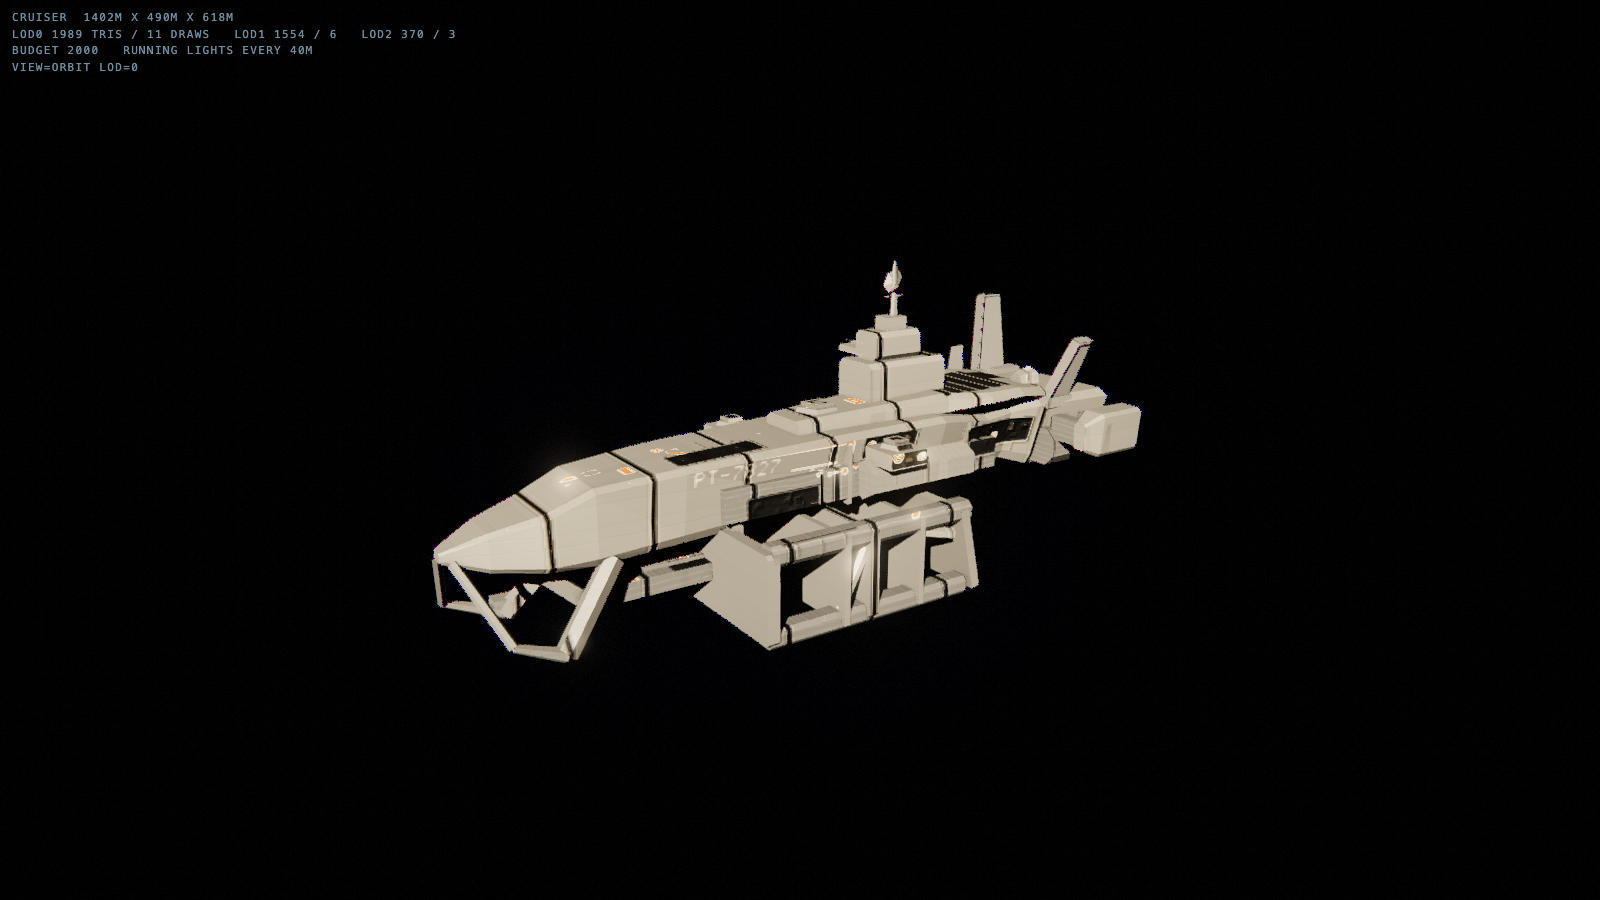
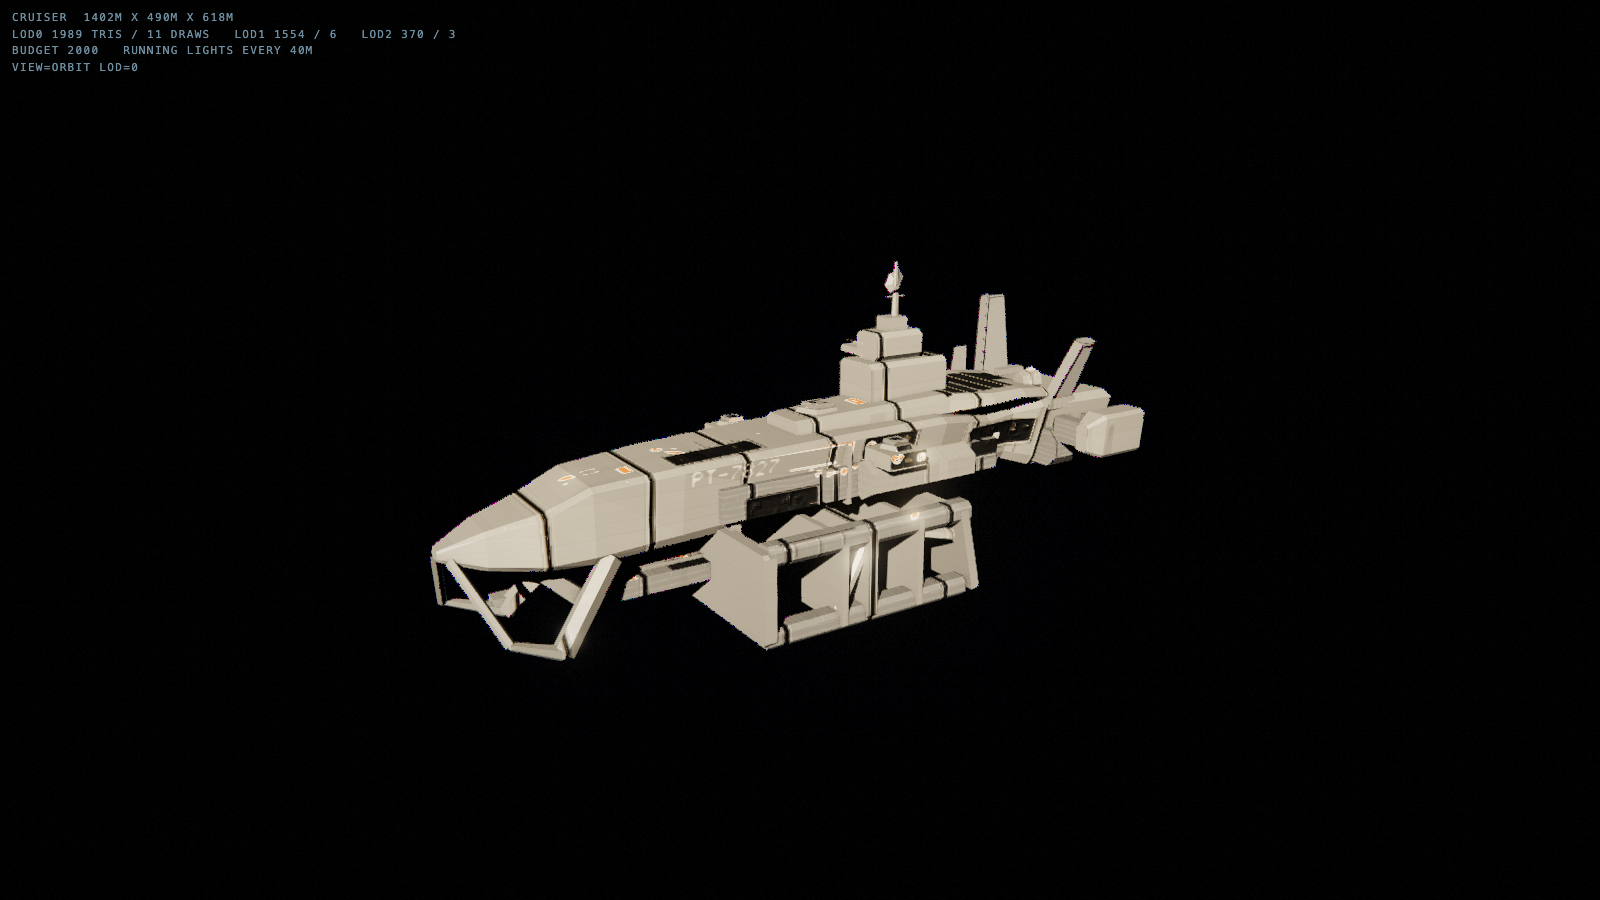
The detached-geometry defect was the detector, not the geometry
`node tools/probe.mjs cruiser` has reported four pieces of core hull floating
unattached in the bridge and sensor-mast region at all three LODs. HANDOFF.md records
it as real, "not cosmetic", present as far back as 5ea20d8 and therefore impossible to
revert away. It is none of those things. It is the check.

floatingParts() shrank every part's bounding box by up to 0.5 m per axis and then tested
the shrunk boxes for intersection. That asks for more than a metre of mutual
INTERPENETRATION before two parts count as joined, so anything bolted flat to a deck is
reported as floating in space. A bridge tower is bolted flat to a deck.

Measured on the unshrunk boxes at LOD0:

  core/hull#3 [-52.0,176.0,-282.0 .. 16.0,232.0,-170.0]
  core/hull#2 [-70.0, 80.0,-333.0 .. 34.0,176.0,-143.0]
  per-axis separation [-86.00, 0.00, -139.00]

Exactly 0.000 m apart on y and overlapping on both other axes: they share a face. The
four flagged parts overlap EACH OTHER by 10 to 29 m, so they were a genuine connected
component of four whose only link to the rest of the hull was that flush face.

Touching is joined. The check now expands by a 0.25 m tolerance and tests intersection,
which says so, where shrinking said the opposite. A sub-metre gap on a 1400 m hull is
invisible, so the tolerance costs no real detection. The audit passes at LOD 0/1/2 and
no geometry moved -- which matters, because the recorded defect would have sent someone
to move correct geometry until a broken check went quiet.

Changed region(s): [[0.25, 0.28, 0.7188, 0.7467], [0.4688, 0.6844, 0.5, 0.7156]]

diff --git a/src/probes/cruiser.js b/src/probes/cruiser.js
@@ -331,6 +331,27 @@ export default {
  *
  * @returns {string[]} human-readable descriptions, empty when the hull is sound
  */
+/**
+ * How close two parts must be to count as joined, in metres.
+ *
+ * This USED to be a shrink: every box was pulled in by up to 0.5 m per axis and the
+ * boxes were then tested for intersection. That demanded more than a metre of mutual
+ * INTERPENETRATION before two parts counted as connected, so anything bolted flat to
+ * a deck — which is how a bridge tower is built — was reported as floating in space.
+ *
+ * It reported exactly that for the whole life of the check. `core/hull#3` sits on
+ * `core/hull#2` with a measured y-separation of 0.000 m and overlap on x and z; the
+ * four superstructure parts overlap EACH OTHER by 10-29 m, so they formed a real
+ * connected component whose only link to the main hull was a flush face. HANDOFF.md
+ * recorded this as four pieces of core hull floating unattached, "not cosmetic" and
+ * impossible to revert away, and it was none of those things.
+ *
+ * Touching is joined. Expanding by a small tolerance and testing intersection says
+ * that; shrinking says the opposite. A sub-metre gap on a 1400 m hull is invisible
+ * anyway, so the tolerance costs no real detection.
+ */
+const TOUCH_TOLERANCE_M = 0.25;
+
 function floatingParts(lod, rng) {
   const { buckets } = hullParts({ rng: rng.fork('cruiser'), lod });
   const items = [];
@@ -340,13 +361,10 @@ function floatingParts(lod, rng) {
       const g = G.mergeParts([b.parts[i]], { uv: false });
       g.computeBoundingBox();
       const box = g.boundingBox.clone();
-      let flat = false;
-      for (const a of ['x', 'y', 'z']) {
-        const d = Math.min(0.5, (box.max[a] - box.min[a]) * 0.49);
-        if (d < 0.5) flat = true;
-        box.min[a] += d;
-        box.max[a] -= d;
-      }
+      // A part thinner than a metre on any axis is a panel or a decal laid ON another
+      // part rather than a structural member. Still audited, but not reported alone.
+      const flat = ['x', 'y', 'z'].some((a) => box.max[a] - box.min[a] < 1);
+      box.expandByScalar(TOUCH_TOLERANCE_M);
       items.push({ name: `${b.key}#${i}`, box, flat });
       g.dispose();
     }
